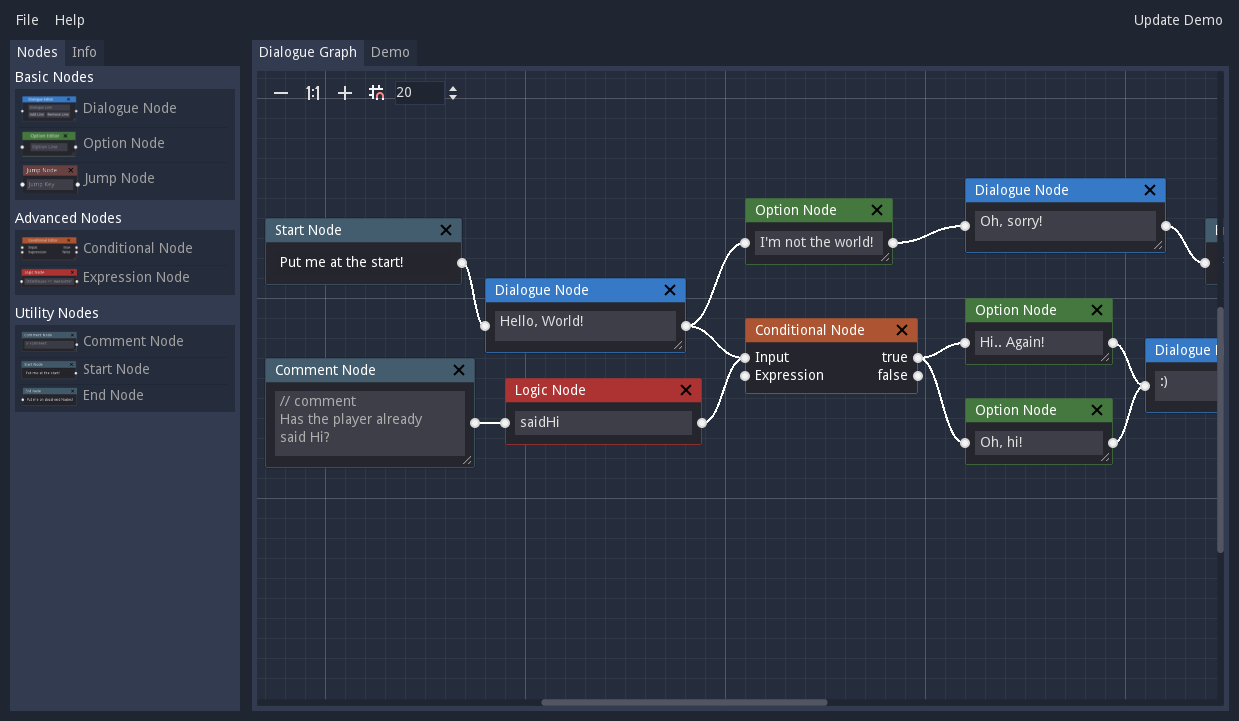
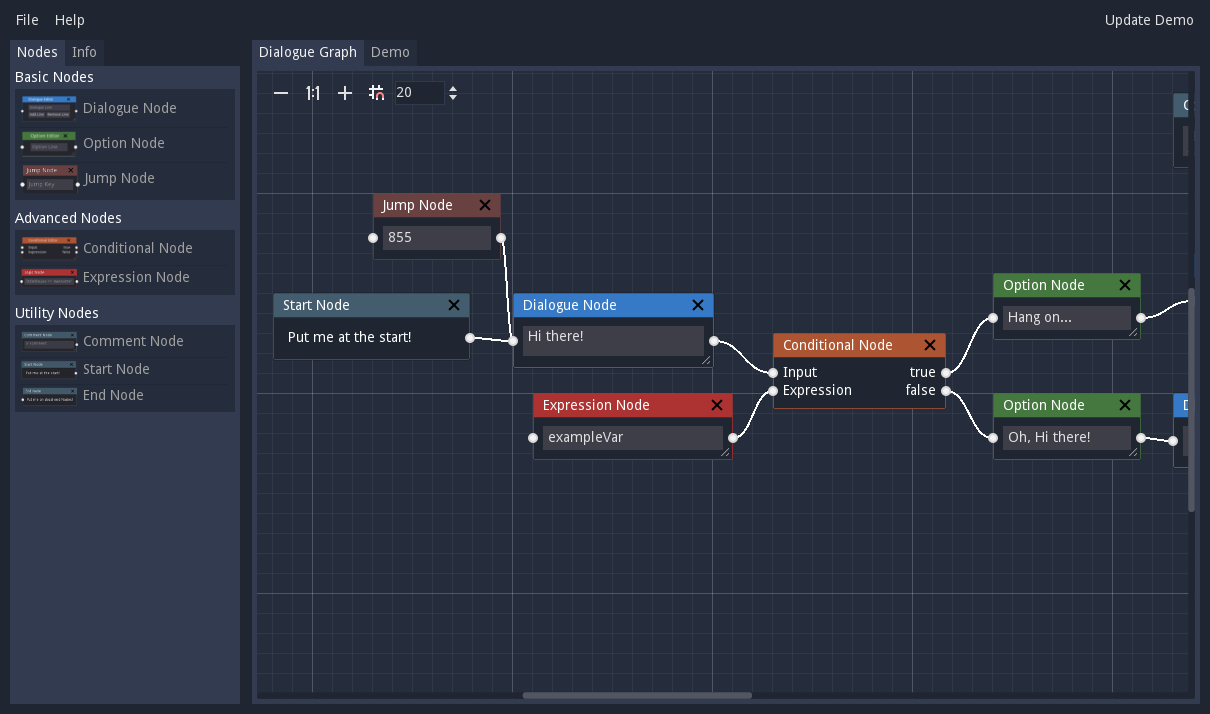
Update screenshot + readme

diff --git a/README.md b/README.md
@@ -25,5 +25,7 @@ We've also created a Parser for the `demo` portion of the tool, so adding that t
 # How can I help?
 The best way to help is to use Whiskers and give me your suggestions and feedback! Of course, pull-requests are always welcome!
 
+Please follow the [GDScript Style Guide](https://docs.godotengine.org/en/3.0/getting_started/scripting/gdscript/gdscript_styleguide.html) when submitting pull-requests! Thank you!
+
 # Why did you make Whiskers?
 There are lots of awesome Dialogue creation tools out there, but I like a good challenge! Creating this tool taught me a *lot* about Godot. Having created my own solution also means that I can add new Features much quicker than if I was using a third-party one!
